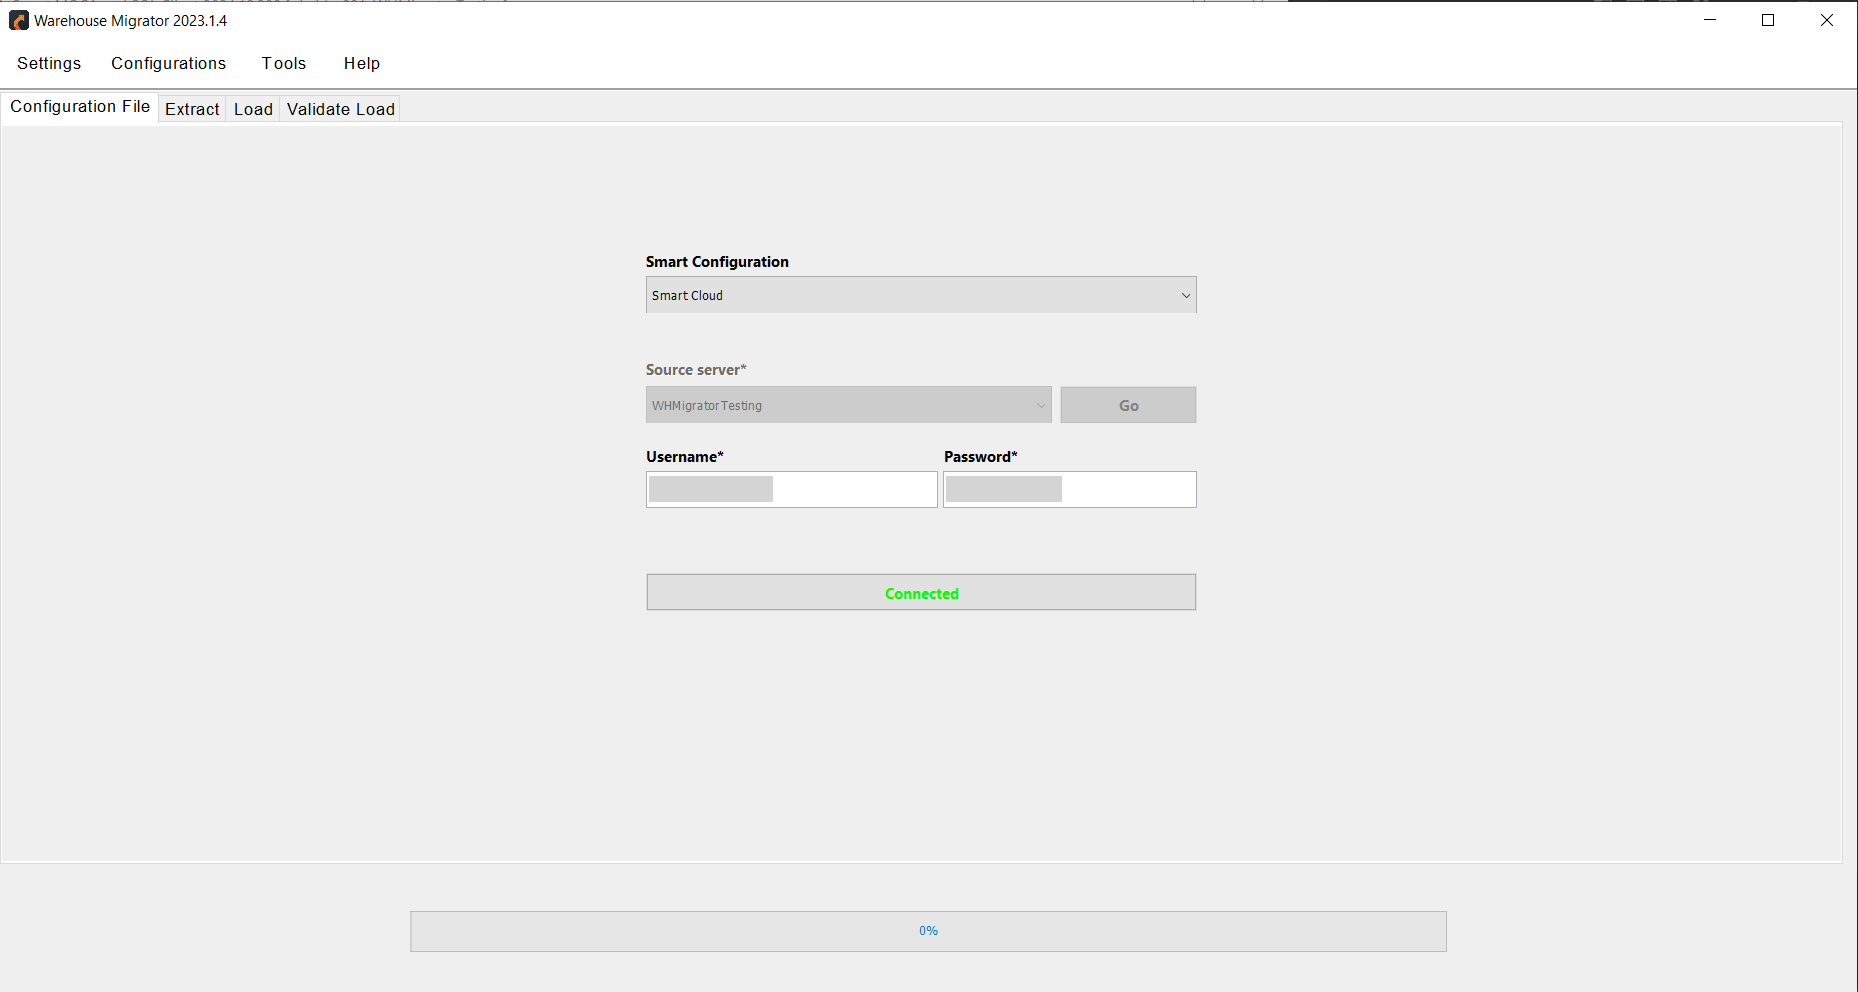
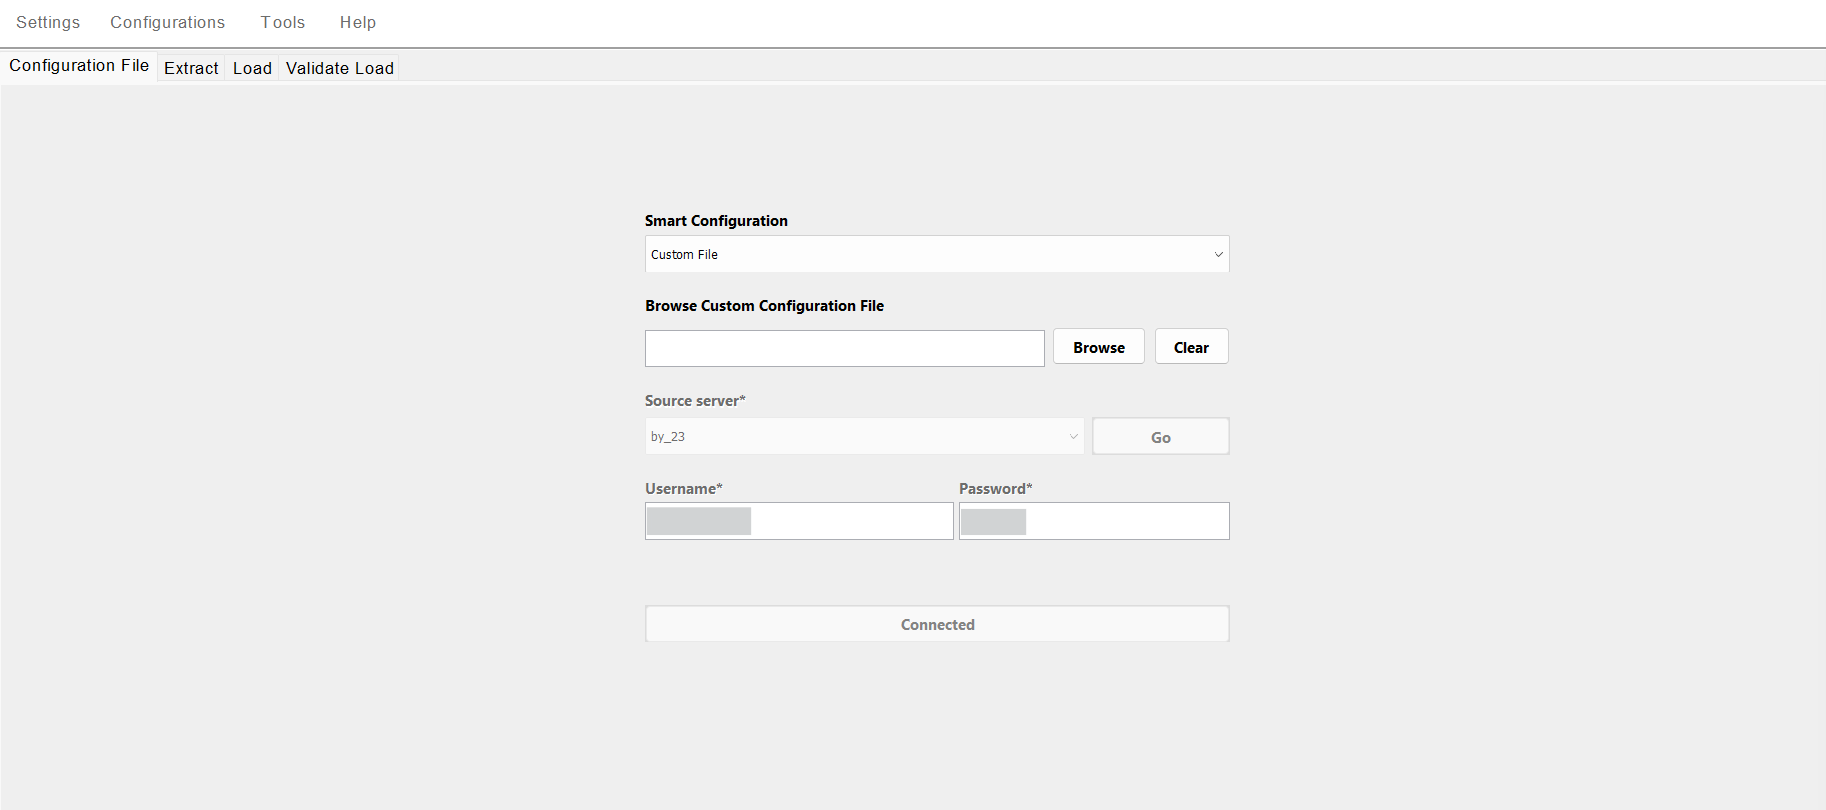
Feature guide
The Warehouse Migrator Feature Guide has been updated to include a more concise overview of essential functions like Direct Load, Create Rollout, and Validate Load. The guide now highlights the tools for data transfer, validation, and error troubleshooting, with added example screenshots for clarity on the user interface and processes involved.

diff --git a/docs/feature-guide.md b/docs/feature-guide.md
@@ -1,0 +1,208 @@
+## Configuration File Setup
+
+The Smart Warehouse Migrator offers two methods for configuration:
+
+1. **Using the Smart API**: Provides a streamlined setup process.
+![](./.attachments/smartapi.png)
+2. **Custom Configuration File**: Allows you to provide your own file for  Smart Configuration tab and then browse your file.
+![](./.attachments/custom.png)
+- After selecting the configuration file, you need to choose your source server and establish a connection by entering your username and password.
+
+These configuration files specify:
+
+- How data is extracted from source systems.
+- How data is loaded into target systems.
+- Settings and parameters for:
+  - Data extraction processes.
+  - Mapping source data to target structures.
+  - Applying necessary transformations.
+
+## Extract Data
+
+The extraction process is customizable, allowing users to extract data based on their specific needs, whether it's for an entire warehouse, certain modules, or individual tables.
+![](./.attachments/extract.png)
+
+## Extraction Options
+
+### Assign Warehouse ID and Locale
+These options enable users to specify the warehouse and locale settings from which they want to extract data.
+
+### Specify Modules and Exclude Tables
+Users can fine-tune the extraction process by selecting only relevant modules or tables and excluding unnecessary ones. This is particularly useful for focusing on specific aspects of warehouse data.
+
+### Specify Extract Path and Name
+These options allow users to specify where the extracted data will be saved and name the extracted folder. This customization helps users organize their data effectively. Default Extract Path can be set in **Settings > User Preferences**.
+
+### Rename Target Warehouse
+This option allows users to rename the extracted warehouse folder.
+
+### Condensed Output
+This feature streamlines the extraction process by excluding empty tables, reducing the size and complexity of the extracted data.
+
+### Clear All
+The "Clear All" option resets the application, including the Source Server and login information, allowing users to start fresh.
+
+### Test Extract
+Before performing a full extraction, users can run a test extract to preview the first 10 rows of each table. This ensures that the correct data is being targeted without committing to a full extraction.
+
+### Extract
+This option allows performing a full extraction. It enables further customization by letting users exclude specific columns from the extraction, such as ID fields or non-essential columns, tailoring the output to their precise requirements.
+
+### Extract Preferences
+The Extract Preference feature allows users to customize their data extraction process by excluding specific columns from the output. This ensures greater control over the extracted data, allowing users to focus on only the relevant information.
+![](./.attachments/extract_preference.png)
+
+## Features and Options
+
+1. **Exclude Columns**: Users can selectively exclude columns from the extract through an intuitive dialogue box. This interface allows for easy customization of the extracted data.
+2. **Hide ID Fields**: Within the dialogue box, users can choose to hide ID fields. By default, certain column names are pre-selected, but users can toggle these options on or off as needed. Additional columns can also be added to the exclusion list for further customization.
+3. **Hide Warehouse ID**: When enabled, the WH_ID (Warehouse ID) column is excluded from the extract file. This ensures that the Warehouse ID is omitted from the extracted data, maintaining data privacy and relevance.
+4. **Hide ID Columns**: When this option is selected, all ID columns are excluded from the extract files. This simplifies the extracted data by removing potentially non-essential identifier fields.
+5. **Add Columns to Hide**: This functionality allows users to add additional columns to the exclusion list as required. Users can specify any non-essential or irrelevant columns for exclusion.
+6. **Hide Non-Essential Columns**: When checked, this option excludes all non-essential ID columns from the extract files. It streamlines the data, ensuring only critical fields are retained.
+7. **Add Non-Essential Columns to Hide**: This feature enables users to specify additional non-essential columns for exclusion, offering greater flexibility and precision.
+
+## Log File
+
+After the extraction is complete, a log file is automatically generated. This file provides a detailed record of the extraction process, which is useful for:
+
+- Troubleshooting issues.
+- Verifying that the extraction was successful.
+
+# Load Tab Overview
+
+The **Load Tab** enables users to load extracted data onto the server by specifying the extraction path. Two main methods are available for loading the data: **Direct Load** and **Create Rollout**, each catering to different needs.
+
+  ![](./.attachments/load.png)
+---
+
+## Load Methods
+
+### 1. **Direct Load**
+
+
+Directly loads extracted data onto the destination server by specifying the data path.
+
+**Key Features:**
+- Supports remote data loading via remote calls between environments.
+- Ideal for quick and straightforward data loading tasks.
+
+---
+
+### 2. **Create Rollout**
+
+Creates a rollout file, specifying the data path and details about custom tables to be created.
+
+**Key Features:**
+- The rollout file can be used with Perl to load data and set up tables in any environment.
+- Provides flexibility for more complex and controlled setups.
+
+---
+
+## Load Tab Components
+
+### Extract Directory
+- Specifies the directory path where the **Warehouse (WH)** data will be loaded.
+
+### Specific Modules
+- Filters modules and tables from the load file, enabling users to focus on specific datasets.
+
+### Exclude Tables
+- Allows filtering to exclude selected tables from being loaded based on the chosen modules.
+
+### Specific Load Operation
+- Choose between different load methods for specific operations:
+  - **Change Only**: Loads only modified data, ideal for incremental updates.
+  - **Create Only**: Loads and creates new data and tables without modifying existing data. Suitable for initializing new datasets.
+
+### Use Destination Warehouse ID
+- Retrieves the default **Warehouse ID** (def_flg 1) from the connected environment.
+  - Note: If the **Hide WH_ID** option is enabled in user preferences, this option must be checked to retrieve the default Warehouse ID.
+  
+
+---
+
+## Direct Load
+![](./.attachments/direct_load.png)
+ 
+This method directly loads the extracted data onto the destination server with a simple click and selection process. Remote loading between different environments is supported through remote calls.
+
+### Key Options:
+
+- **Destination Server**: Specifies the target environment for the data load.
+- **Remote Server**: Facilitates loading data remotely to another environment.
+  - Requires connection to the environment specified as the **Destination Server**.
+- **Remote Load**: Enables remote load operations between environments.
+- **Test Load**: Performs a test load, where only the first 10 rows of each table are loaded to the target environment for verification before full data loading.
+- **Load**: Initiates the loading process after completing all fields.
+
+---
+
+## Create Rollout
+  
+This method allows the creation of a rollout file for more complex setups, which can be later used to load data and create tables using Perl in any environment.
+
+### Steps:
+1. Specify the rollout directory.
+2. Optionally, customize the naming convention of the rollout file.
+3. Fill in required fields and generate the rollout.
+
+![](./.attachments/rollout.png)
+
+
+The rollout file contains all necessary data and table details, which can be loaded into any environment using Perl.
+
+### Generate Test Script
+- Creates a test script that loads only the first 10 rows of data, offering a way to test the data loading process without performing a full load.
+
+![](./.attachments/test.png)
+
+
+---
+
+### Notes:
+- **Test Load** is useful for validating the setup before committing to a full data load.
+- **Create Rollout** is best for complex scenarios that require more control and flexibility during the data setup and loading process.
+
+# Validate Load Overview
+
+![](./.attachments/validate.png)
+
+The **Validate Load** feature ensures that the data loaded into the destination database matches the extracted data. It helps identify errors and discrepancies during the data loading process, ensuring data integrity.
+
+---
+
+## Key Features
+
+### Data Validation
+- Compares the data loaded in the destination database with the extracted data to ensure accuracy and consistency.
+
+### Error Logs
+- Provides error logs in case of discrepancies or issues during the data loading, aiding in troubleshooting.
+
+---
+
+## Validate Load Components
+
+### Destination Server (Dest Server)
+- Refers to the target environment where the data is being loaded.
+
+### Extract Path
+- Allows users to select the folder containing the extracted data for validation.
+
+### Validate
+- After selecting the destination server and extract folder:
+  1. Choose the warehouse and locale ID.
+  2. Initiates the validation process.
+  3. Compares the data in the target environment with the data in the extract folder.
+  4. Highlights discrepancies or missing data.
+  5. Displays results in a grid format for easy review.
+
+### Save Results
+- Saves the validation results in CSV format for record-keeping or further analysis.
+
+---
+
+### Notes:
+- **Data Validation** is crucial for ensuring the integrity of data after it has been loaded into the destination server.
+- **Error Logs** offer a detailed record of issues to assist in resolving any discrepancies that may arise during the loading process.
